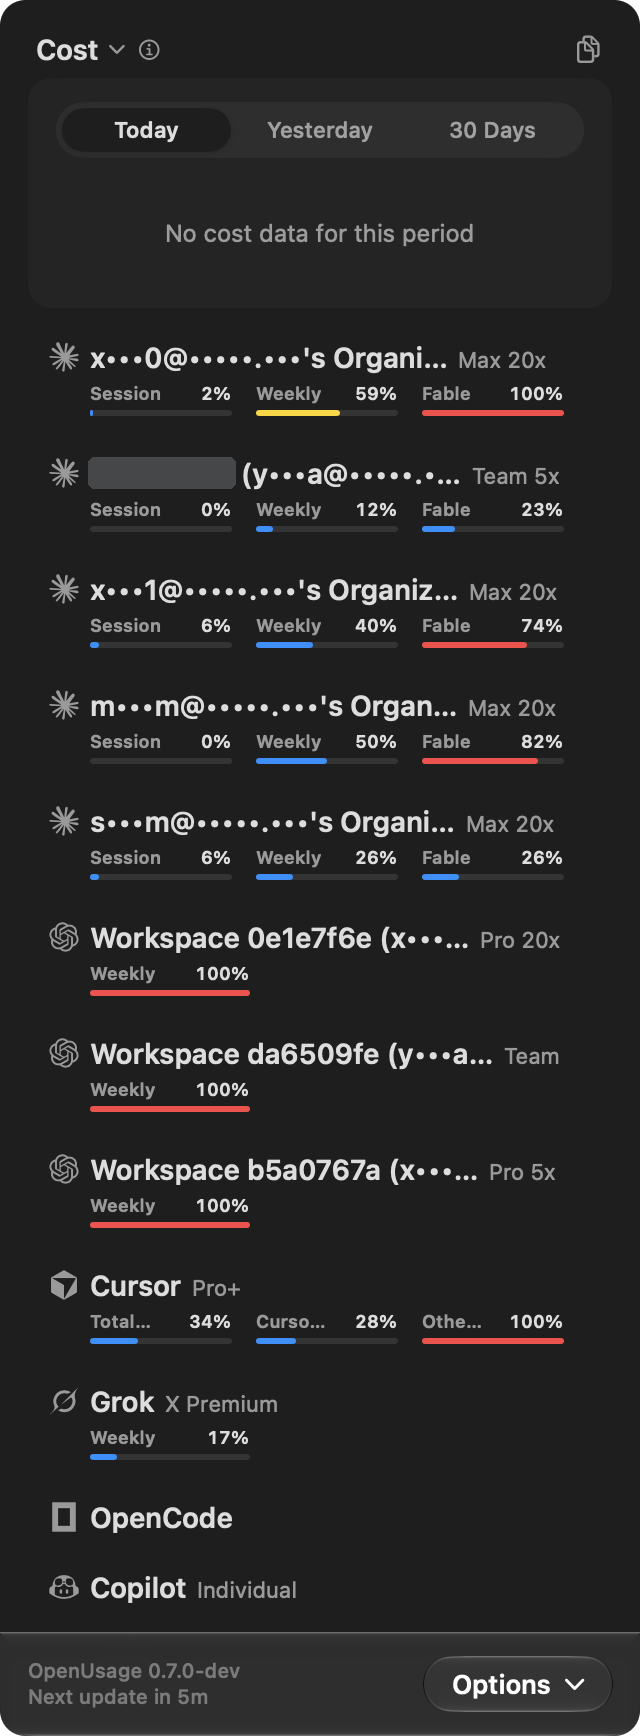
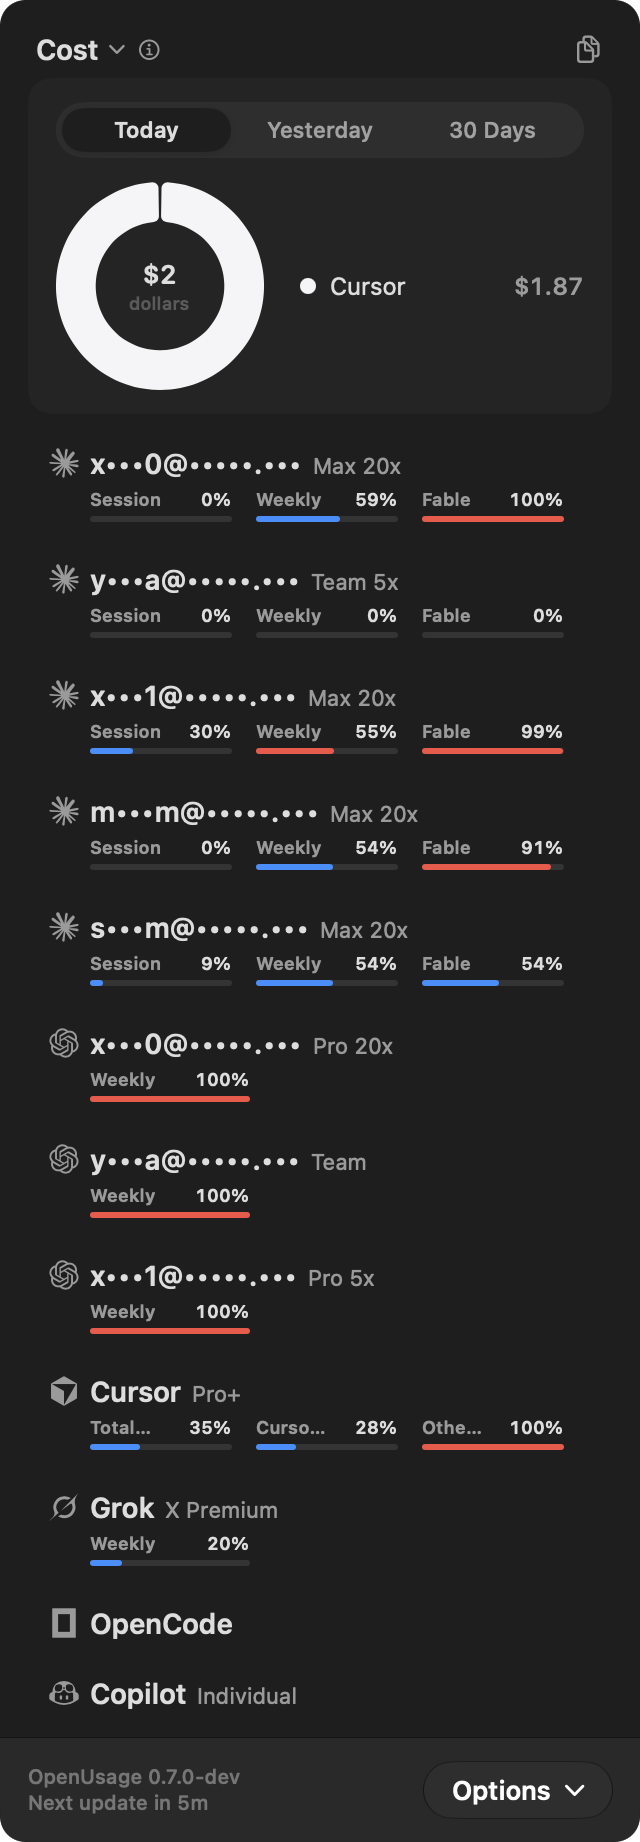
Name multi-account cards after the account, not its generated label
A card for one of several accounts is now named after the address signed into
it. The wording the providers generate around that address is dropped: Claude
reports a personal organization as "jane@example.com's Organization", and Codex
reports a workspace id, and both repeat what the address already says while
being the half that survived truncation in a 320pt header.

Claude cards sharing one address keep their organization, since that is the only
thing telling them apart; the existing overlap test covers it. Codex users in
that position can set an alias. A team name you recognize is never invented over.

Also refreshes the mini-card screenshots to show the new names.

diff --git a/Tests/OpenUsageTests/AccountDisplayNameTests.swift b/Tests/OpenUsageTests/AccountDisplayNameTests.swift
@@ -1,0 +1,122 @@
+import XCTest
+@testable import OpenUsage
+
+/// How multi-account cards name themselves in a 320pt header: the account first, and no generated
+/// wording that repeats it.
+final class AccountDisplayNameTests: XCTestCase {
+
+    // MARK: - Claude organizations
+
+    func testPersonalOrganizationCollapsesToItsOwnersAddress() {
+        // Anthropic names a personal organization after its owner, which says nothing the address
+        // doesn't, and it is the half that survives truncation.
+        XCTAssertEqual(
+            ClaudeOrganizationLabel.collapsingDefaultName("jane@example.com's Organization"),
+            "jane@example.com"
+        )
+    }
+
+    func testTypographicApostropheIsCollapsedToo() {
+        XCTAssertEqual(
+            ClaudeOrganizationLabel.collapsingDefaultName("jane@example.com\u{2019}s Organization"),
+            "jane@example.com"
+        )
+    }
+
+    func testSuffixMatchIsCaseInsensitive() {
+        XCTAssertEqual(
+            ClaudeOrganizationLabel.collapsingDefaultName("jane@example.com's organization"),
+            "jane@example.com"
+        )
+    }
+
+    func testRealTeamNameIsUntouched() {
+        XCTAssertEqual(ClaudeOrganizationLabel.collapsingDefaultName("Acme"), "Acme")
+        XCTAssertEqual(ClaudeOrganizationLabel.collapsingDefaultName("Acme Research"), "Acme Research")
+    }
+
+    func testTeamNamedAfterAPersonKeepsItsName() {
+        // Only an email-shaped owner counts as the generated form.
+        XCTAssertEqual(
+            ClaudeOrganizationLabel.collapsingDefaultName("Dave's Organization"),
+            "Dave's Organization"
+        )
+        XCTAssertEqual(
+            ClaudeOrganizationLabel.collapsingDefaultName("The Bakery's Organization"),
+            "The Bakery's Organization"
+        )
+    }
+
+    func testOwnerWithoutADottedDomainIsNotAnAddress() {
+        XCTAssertEqual(
+            ClaudeOrganizationLabel.collapsingDefaultName("team@intranet's Organization"),
+            "team@intranet's Organization"
+        )
+    }
+
+    // MARK: - Claude cards
+
+    func testPersonalAccountIsNamedAfterItsAddress() {
+        let account = claude(email: "jane@example.com", organizationName: "jane@example.com's Organization")
+
+        XCTAssertEqual(account.displayName(), "Claude: jane@example.com")
+    }
+
+    func testTeamAccountIsNamedAfterItsAddressToo() {
+        // The organization is not what tells two of your own accounts apart, and it crowded out the
+        // address it was printed beside.
+        let account = claude(email: "jane@example.com", organizationName: "Acme")
+
+        XCTAssertEqual(account.displayName(), "Claude: jane@example.com")
+    }
+
+    func testOrganizationNameIsStillCarriedForTheRestOfTheApp() {
+        XCTAssertEqual(claude(email: "jane@example.com", organizationName: "Acme").organizationName, "Acme")
+    }
+
+    // MARK: - Codex workspaces
+
+    func testCodexIsNamedAfterTheAddressWithNoGeneratedWorkspace() {
+        // The workspace id is generated, so it must not be what a narrow header spends its width on.
+        let identity = CodexAccountIdentity(accountID: "0e1e7f6e-1234", email: "jane@example.com")
+
+        XCTAssertEqual(identity?.displayName(), "Codex: jane@example.com")
+    }
+
+    func testAliasStillDistinguishesTwoWorkspacesOnOneAddress() {
+        // Without an alias the two read the same, which is the accepted trade for a readable header.
+        let identity = CodexAccountIdentity(accountID: "0e1e7f6e-1111", email: "jane@example.com")
+        let other = CodexAccountIdentity(accountID: "b5a0767a-2222", email: "jane@example.com")
+
+        XCTAssertEqual(identity?.displayName(), other?.displayName())
+        XCTAssertNotEqual(identity?.displayName(alias: "personal"), other?.displayName(alias: "team"))
+    }
+
+    func testAliasWinsOverBothWhenTheUserPickedOne() {
+        let identity = CodexAccountIdentity(accountID: "0e1e7f6e-1234", email: "jane@example.com")
+
+        XCTAssertEqual(identity?.displayName(alias: "work"), "Codex: work (jane@example.com)")
+    }
+
+    func testWorkspaceAloneWhenThereIsNoAddress() {
+        let identity = CodexAccountIdentity(accountID: "0e1e7f6e-1234", email: nil)
+
+        XCTAssertEqual(identity?.displayName(), "Codex: Workspace 0e1e7f6e")
+    }
+
+    func testAddressAloneWhenThereIsNoWorkspace() {
+        let identity = CodexAccountIdentity(accountID: nil, email: "jane@example.com")
+
+        XCTAssertEqual(identity?.displayName(), "Codex: jane@example.com")
+    }
+
+    // MARK: - Helpers
+
+    private func claude(email: String, organizationName: String?) -> ClaudeSwapAccount {
+        ClaudeSwapAccount(
+            root: "/tmp/root", slot: "1", email: email,
+            identityKey: "identity", organizationID: "org-1234abcd",
+            organizationName: organizationName
+        )
+    }
+}

diff --git a/Sources/OpenUsage/Services/ProviderAccountAssembly.swift b/Sources/OpenUsage/Services/ProviderAccountAssembly.swift
@@ -4,7 +4,9 @@ struct ClaudeAccountCard: Equatable, Sendable {
     let id: String
     let identityKey: String
     let organizationID: String?
-    let displayName: String
+    /// Settled once every card is known, so a card can be named after its address alone unless that
+    /// address is signed into more than one organization. See `namedByAccount`.
+    var displayName: String
     let usesDesktopCredentials: Bool
     let allowsUnattributedPiUsage: Bool
     var swapAccount: ClaudeSwapAccount? = nil
@@ -213,7 +215,7 @@ struct ProviderAccountAssembly {
             guard !cards.contains(where: { $0.id == cardID }) else { continue }
             cards.append(ClaudeAccountCard(
                 id: cardID, identityKey: organization.identityKey, organizationID: organization.id,
-                displayName: "Claude — \(organizationLabel(record.label) ?? organization.label)",
+                displayName: "Claude — \(organizationLabel(record.label) ?? ClaudeOrganizationLabel.collapsingDefaultName(organization.label))",
                 usesDesktopCredentials: true, allowsUnattributedPiUsage: allowsUnattributedPiUsage,
                 organizationName: organizationLabel(record.label) ?? organization.label
             ))
@@ -225,7 +227,7 @@ struct ProviderAccountAssembly {
                 let existing = cards[index]
                 cards[index] = ClaudeAccountCard(
                     id: existing.id, identityKey: existing.identityKey, organizationID: existing.organizationID,
-                    displayName: account.displayName(fallbackOrganization: existing.organizationName),
+                    displayName: account.displayName(),
                     usesDesktopCredentials: existing.usesDesktopCredentials,
                     allowsUnattributedPiUsage: allowsUnattributedPiUsage,
                     swapAccount: account, organizationName: account.organizationName ?? existing.organizationName
@@ -246,7 +248,36 @@ struct ProviderAccountAssembly {
         for index in cards.indices {
             cards[index].additionalLogDirectories = swapAccounts.map(\.sessionDirectory)
         }
-        return ProviderAccountAssembly(identityKeysByCard: identityKeys, claudeCards: cards, codexCards: codexCards)
+        return ProviderAccountAssembly(identityKeysByCard: identityKeys,
+                                       claudeCards: namedByAccount(cards), codexCards: codexCards)
+    }
+
+    /// Names every saved Claude account after the address signed into it. The organization is added
+    /// back only where it is the one thing telling two cards apart, which is a single address signed
+    /// into more than one organization: naming both "Claude: jane@example.com" would leave the user
+    /// with two identical cards. Desktop-only cards carry no address of their own and keep the name
+    /// they were built with.
+    private static func namedByAccount(_ cards: [ClaudeAccountCard]) -> [ClaudeAccountCard] {
+        var tally: [String: Int] = [:]
+        for card in cards {
+            guard let email = card.swapAccount?.email.lowercased() else { continue }
+            tally[email, default: 0] += 1
+        }
+        return cards.map { card in
+            guard let account = card.swapAccount else { return card }
+            var card = card
+            guard tally[account.email.lowercased(), default: 0] > 1 else {
+                card.displayName = account.displayName()
+                return card
+            }
+            let raw = card.organizationName ?? account.organizationName
+                ?? "Organization \(account.organizationID.prefix(8))"
+            let organization = ClaudeOrganizationLabel.collapsingDefaultName(raw)
+            card.displayName = organization.caseInsensitiveCompare(account.email) == .orderedSame
+                ? account.displayName()
+                : "Claude: \(organization) (\(account.email))"
+            return card
+        }
     }
 
     private struct DesktopOrganization {
@@ -256,8 +287,12 @@ struct ProviderAccountAssembly {
     }
 
     private static func organizationLabel(_ value: String?) -> String? {
-        guard let value, let opening = value.lastIndex(of: "("), value.last == ")" else { return value }
-        return String(value[value.index(after: opening)..<value.index(before: value.endIndex)])
+        guard let value else { return nil }
+        guard let opening = value.lastIndex(of: "("), value.last == ")" else {
+            return ClaudeOrganizationLabel.collapsingDefaultName(value)
+        }
+        let inner = String(value[value.index(after: opening)..<value.index(before: value.endIndex)])
+        return ClaudeOrganizationLabel.collapsingDefaultName(inner)
     }
 
     private static func discoverDesktopOrganizations(

diff --git a/Sources/OpenUsage/Providers/Claude/ClaudeOrganizationLabel.swift b/Sources/OpenUsage/Providers/Claude/ClaudeOrganizationLabel.swift
@@ -1,0 +1,33 @@
+import Foundation
+
+/// Cleans up the organization name Claude reports for a personal account.
+///
+/// Anthropic names a personal organization after its owner, so the name comes back as
+/// "jane@example.com's Organization". In a 320pt card header that suffix repeats nothing the address
+/// doesn't already say, and it is what survives truncation while the address itself gets cut off. A
+/// default-named organization is therefore shown as the address alone. A real team name ("Acme") is
+/// never touched, and neither is a team whose name merely ends the same way, since only an
+/// email-shaped owner counts as the generated form.
+enum ClaudeOrganizationLabel {
+    /// Both apostrophes: the API has been seen to use the typographic one.
+    private static let suffixes = ["'s Organization", "\u{2019}s Organization"]
+
+    static func collapsingDefaultName(_ organization: String) -> String {
+        let trimmed = organization.trimmingCharacters(in: .whitespacesAndNewlines)
+        for suffix in suffixes where trimmed.lowercased().hasSuffix(suffix.lowercased()) {
+            let owner = String(trimmed.dropLast(suffix.count))
+                .trimmingCharacters(in: .whitespacesAndNewlines)
+            guard isEmailShaped(owner) else { continue }
+            return owner
+        }
+        return organization
+    }
+
+    /// Deliberately narrow: one "@" with something either side and no spaces. A team called
+    /// "Dave's Organization" keeps its name because "Dave" is not an address.
+    private static func isEmailShaped(_ value: String) -> Bool {
+        guard !value.contains(" ") else { return false }
+        let parts = value.split(separator: "@", omittingEmptySubsequences: false)
+        return parts.count == 2 && !parts[0].isEmpty && parts[1].contains(".")
+    }
+}

diff --git a/Sources/OpenUsage/Providers/Codex/CodexSwapAccount.swift b/Sources/OpenUsage/Providers/Codex/CodexSwapAccount.swift
@@ -8,6 +8,23 @@ struct CodexAccountIdentity: Equatable, Hashable, Sendable {
 
     var key: String { accountID + "|" + (email ?? "") }
 
+    /// Name the account after whoever is signed in. The workspace id is generated, so a narrow
+    /// header spent its whole width on it and truncated the address that actually says whose account
+    /// this is; it is now dropped whenever an address is known. It remains the only label available
+    /// for a login whose token carries no email.
+    ///
+    /// One address can hold several ChatGPT workspaces, and those cards now read the same. That is
+    /// the deliberate trade for a readable header: a user-chosen alias tells them apart.
+    func displayName(alias: String? = nil) -> String {
+        if let alias {
+            return "Codex: \(alias) (\(email ?? accountID))"
+        }
+        guard let email else {
+            return "Codex: Workspace \(accountID.isEmpty ? "Unknown" : String(accountID.prefix(8)))"
+        }
+        return "Codex: \(email)"
+    }
+
     static func isComplete(key: String) -> Bool {
         let parts = key.split(separator: "|", omittingEmptySubsequences: false)
         return parts.count == 2 && parts.allSatisfy { !$0.isEmpty }
@@ -49,8 +66,7 @@ struct CodexSwapAccount: Equatable, Sendable {
     let shareHistory: Bool
 
     var displayName: String {
-        let label = alias ?? "Workspace \(identity.accountID.prefix(8))"
-        return "Codex: \(label) (\(identity.email ?? identity.accountID))"
+        identity.displayName(alias: alias)
     }
 
     static func discover(

diff --git a/Sources/OpenUsage/Services/ProviderAccountAssembly+Codex.swift b/Sources/OpenUsage/Services/ProviderAccountAssembly+Codex.swift
@@ -45,8 +45,7 @@ extension ProviderAccountAssembly {
         for path in defaultPaths + mainPaths where seenPaths.insert(path).inserted {
             guard let state = auth.loadAuth(at: path), state.hasUsableAccessToken,
                   let identity = CodexAccountIdentity(auth: state.auth) else { continue }
-            let workspace = identity.accountID.isEmpty ? "Unknown" : String(identity.accountID.prefix(8))
-            observe(identity, label: "Codex: Workspace \(workspace) (\(identity.email ?? identity.accountID))",
+            observe(identity, label: identity.displayName(),
                     source: .init(kind: .defaultHome, anchor: URL(fileURLWithPath: path).deletingLastPathComponent().path,
                                   holdsDefaultSource: observations.isEmpty))
         }
@@ -54,8 +53,7 @@ extension ProviderAccountAssembly {
         // Discover it before saved slots so it retains the default card on a first launch.
         if let state = await loadOffMainActor({ auth.loadKeychainAuth() }), state.hasUsableAccessToken,
            let identity = CodexAccountIdentity(auth: state.auth) {
-            let workspace = identity.accountID.isEmpty ? "Unknown" : String(identity.accountID.prefix(8))
-            observe(identity, label: "Codex: Workspace \(workspace) (\(identity.email ?? identity.accountID))",
+            observe(identity, label: identity.displayName(),
                     source: .init(kind: .defaultHome, anchor: nil, holdsDefaultSource: observations.isEmpty))
         }
         for swap in swaps {

diff --git a/Tests/OpenUsageTests/ClaudeSwapAccountTests.swift b/Tests/OpenUsageTests/ClaudeSwapAccountTests.swift
@@ -36,10 +36,12 @@ final class ClaudeSwapAccountTests: XCTestCase {
         let assembly = await ProviderAccountAssembly.make(observer: observer, accountsStore: store)
 
         XCTAssertEqual(assembly.claudeCards.count, 3)
+        // Three different addresses, so each card is named after its own and the organization,
+        // which is generated here anyway, stays out of a narrow header.
         XCTAssertEqual(Set(assembly.claudeCards.map(\.displayName)), [
-            "Claude: Organization (work@example.com)",
-            "Claude: Organization bbbbbbbb (first@example.com)",
-            "Claude: Organization cccccccc (second@example.com)"
+            "Claude: work@example.com",
+            "Claude: first@example.com",
+            "Claude: second@example.com"
         ])
         XCTAssertEqual(assembly.identityKeysByCard.count, 3)
         XCTAssertTrue(assembly.claudeCards.allSatisfy { !$0.allowsUnattributedPiUsage })

diff --git a/Sources/OpenUsage/Providers/Claude/ClaudeSwapAccount.swift b/Sources/OpenUsage/Providers/Claude/ClaudeSwapAccount.swift
@@ -9,9 +9,11 @@ struct ClaudeSwapAccount: Equatable, Sendable {
     let organizationID: String
     var organizationName: String? = nil
 
-    func displayName(fallbackOrganization: String? = nil) -> String {
-        let organization = organizationName ?? fallbackOrganization ?? "Organization \(organizationID.prefix(8))"
-        return "Claude: \(organization) (\(email))"
+    /// Name the card after whoever is signed in. The organization name is not what tells two of
+    /// your own accounts apart, and in a 320pt header it pushed the address out of view, so the
+    /// address stands alone. `organizationName` is still carried for the rest of the app.
+    func displayName() -> String {
+        "Claude: \(email)"
     }
 
     var sessionDirectory: String {

diff --git a/docs/dashboard.md b/docs/dashboard.md
@@ -58,6 +58,12 @@ costs the width the account label needs, so **Hide Agent Name for Multi-Account 
 still says which agent the card belongs to. A provider with a single account has no prefix to drop and
 looks the same either way.
 
+Each card is named after the address signed into it. The organization and workspace wording the
+providers generate, like `jane@example.com's Organization` or `Workspace 0e1e7f6e`, is left out: it
+repeats what the address already says and it was what survived truncation in a 320pt header. If one
+address is signed into more than one Claude organization, those cards show the organization again,
+because that is the only thing telling them apart. For Codex, give one of them an alias instead.
+
 Account names often include an email address. **Hide Emails** (Settings, Privacy) masks them here and
 everywhere else the app shows an account, keeping just enough to tell accounts apart:
 `j•••e@•••••.•••`.
